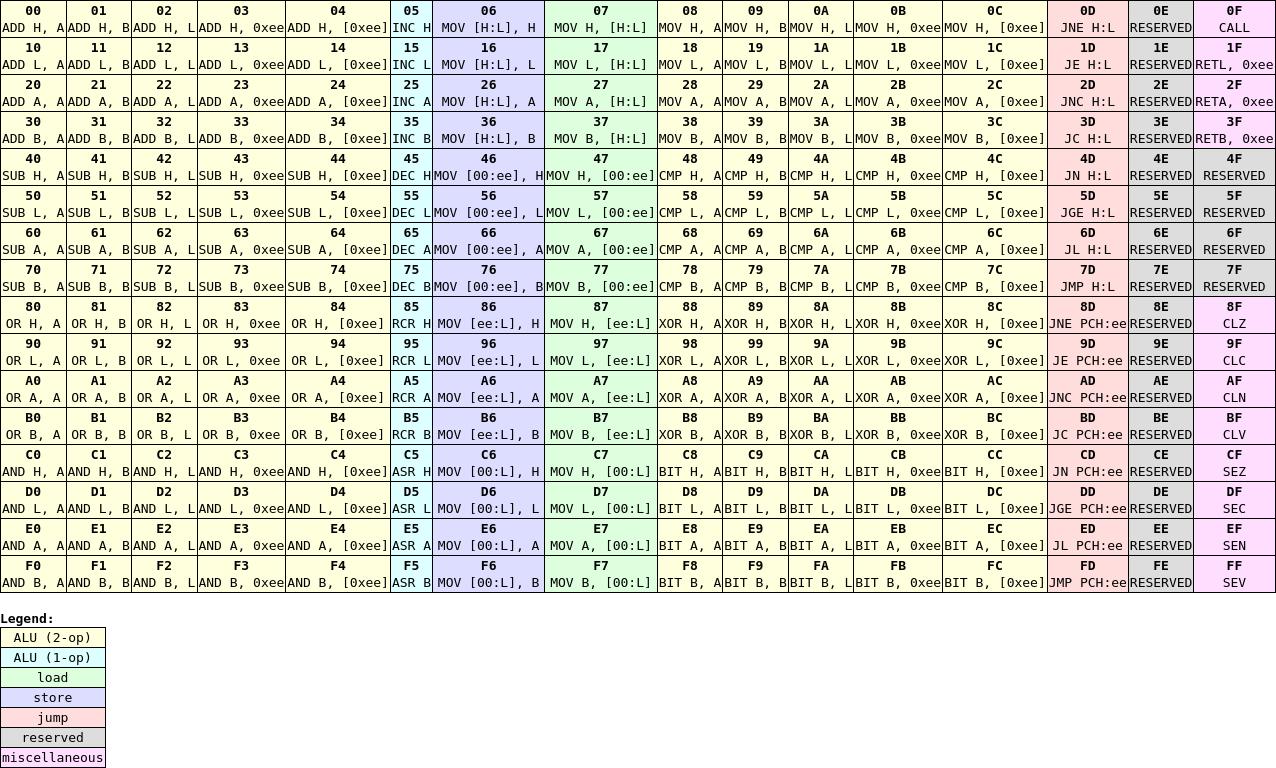
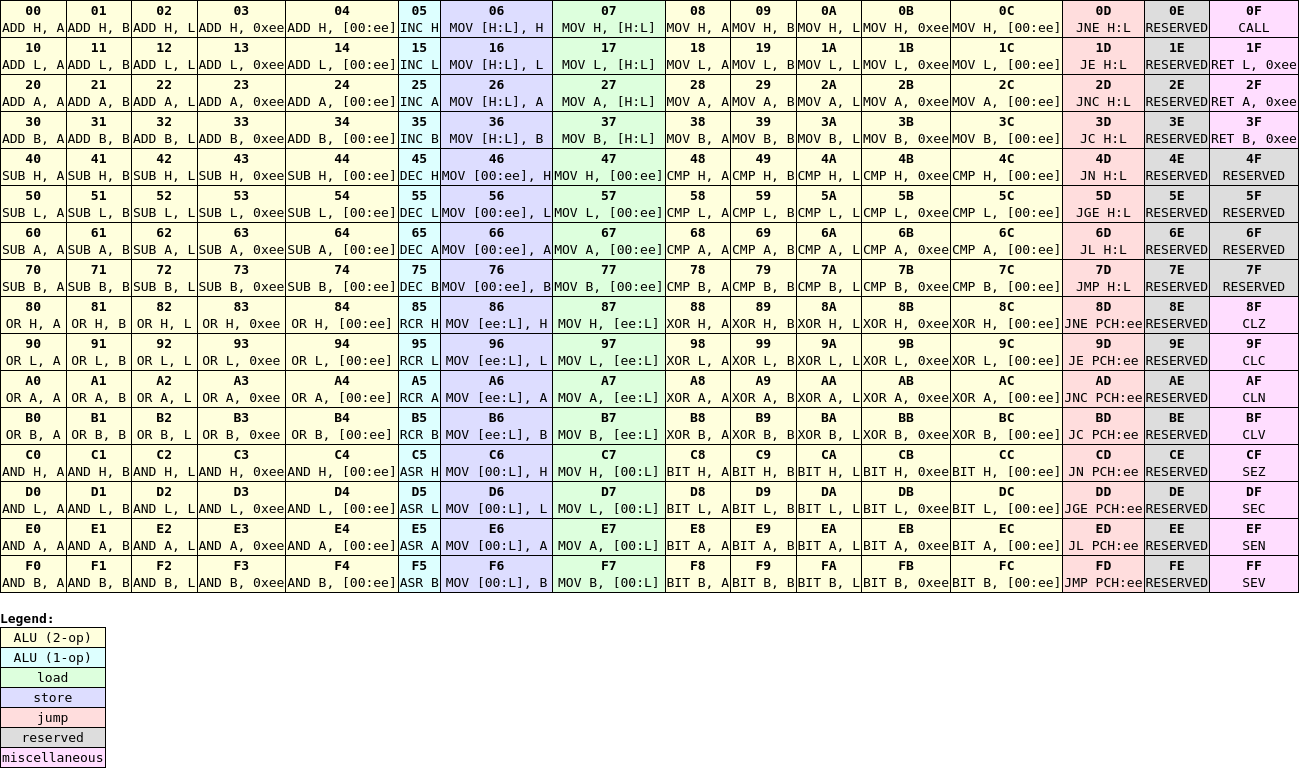
Refactored disassembler

Changed region(s): [[0.0, 0.0, 1.0, 1.0]]

diff --git a/emu/disas.c b/emu/disas.c
@@ -1,58 +1,118 @@
 #include <stdio.h>
 #include <stdlib.h>
 #include <stdint.h>
+#include <string.h>
 
 #define err(...) do { printf(__VA_ARGS__); exit(1); } while (0)
 
 uint8_t rom[100000];
 
-int disassemble(uint8_t* rom, char* str) {
+typedef enum opcode_type {
+	OP_RESERVED, OP_ALU2, OP_ALU1, OP_LOAD, OP_STORE, OP_JUMP, OP_CALL, OP_RETX, OP_FLAG,
+} opcode_type;
+
+typedef enum alu1_type {
+	ALU1_INC, ALU1_DEC, ALU1_RCR, ALU1_ASR,
+} alu1_type;
+
+typedef enum alu2_type {
+	ALU2_ADD, ALU2_MOV, ALU2_SUB, ALU2_CMP, ALU2_OR, ALU2_XOR, ALU2_AND, ALU2_BIT,
+} alu2_type;
+
+typedef enum operand_type {
+	OPER_NONE, OPER_REG, OPER_IMM, OPER_MEM_IMM, OPER_MEM_HL, OPER_MEM_IMM_L, 
+	OPER_MEM_L, OPER_PCH_IMM, OPER_HL, OPER_FLAG,
+} operand_type;
+
+typedef enum reg_type {
+	REG_NONE, REG_H, REG_L, REG_A, REG_B,
+} reg_type;
+
+typedef enum condition_type {
+	COND_NE, COND_E, COND_NC, COND_C, COND_N, COND_GE, COND_L, COND_1,
+} condition_type;
+
+typedef struct operand_t {
+	operand_type type;
+	reg_type reg;
+	uint8_t imm;
+} operand_t;
+
+typedef struct opcode_t {
+	opcode_type type;
+	union {
+		alu1_type alu1;
+		alu2_type alu2;
+		condition_type cond;
+	};
+	operand_t dst;
+	operand_t src;
+} opcode_t;
+
+int decode(uint8_t* rom, opcode_t* opcode) {
 	uint8_t op = *rom;
 	uint8_t imm = rom[1];
-
-	const char* dest[] = {"H", "L", "A", "B"};
 	uint8_t dd = (op >> 4) & 3;
 	uint8_t last3 = op & 7;
 	uint8_t last4 = op & 0xf;
 	uint8_t aa = ((op >> 6) & 3);
+	memset(opcode, 0, sizeof(opcode_t));
 	if (last3 <= 4) { 
-		uint8_t aaa = ((op >> 3) & 1) | (((op >> 6) & 3) << 1);
-		const char* alu2[] = {"ADD", "MOV", "SUB", "CMP", "OR", "XOR", "AND", "BIT"};
-		str += sprintf(str, "%s %s, ", alu2[aaa], dest[dd]);
+		opcode->type = OP_ALU2;
+		opcode->alu2 = ((op >> 3) & 1) | (((op >> 6) & 3) << 1);
+		opcode->dst.type = OPER_REG;
+		opcode->dst.reg = REG_H + dd;
 		if (last3 <= 2) {
-			const char* src[] = {"A", "B", "L"};
-			sprintf(str, "%s", src[last3]);
+			opcode->src.type = OPER_REG;
+			opcode->src.reg = (last3 == 0) ? REG_A : (last3 == 1) ? REG_B : REG_L;
 			return 1;
 		}
+		else if (last3 == 3) {
+			opcode->src.type = OPER_IMM;
+			opcode->src.imm = imm;
+			return 2;
+		}
 		else {
-			sprintf(str, "%s0x%02x%s", 
-					last3 == 3 ? "" : "[", 
-					imm,
-					last3 == 3 ? "" : "]");
+			opcode->src.type = OPER_MEM_IMM;
+			opcode->src.imm = imm;
 			return 2;
 		}
 	}
 	else if (last4 == 5) {
-		const char* alu1[] = {"INC", "DEC", "RCR", "ASR"};
-		sprintf(str, "%s %s", alu1[aa], dest[dd]);
+		opcode->type = OP_ALU1;
+		opcode->alu1 = aa;
+		opcode->dst.type = OPER_REG;
+		opcode->dst.reg = REG_H + dd;
+		opcode->src = opcode->dst;
 		return 1;
 	}
 	else if (last4 == 6 || last4 == 7) {
-		str += sprintf(str, "MOV ");
-
-		if (last4 == 7) {
-			str += sprintf(str, "%s, ", dest[dd]);
+		opcode->src.type = OPER_REG;
+		opcode->src.reg = REG_H + dd;
+		if (aa == 0) {
+			opcode->dst.type = OPER_MEM_HL;
 		}
-
-		if (aa == 0) str += sprintf(str, "[H:L]");
-		if (aa == 1) str += sprintf(str, "[00:%02x]", imm);
-		if (aa == 2) str += sprintf(str, "[%02x:L]", imm);
-		if (aa == 3) str += sprintf(str, "[00:L]");
+		else if (aa == 1) {
+			opcode->dst.type = OPER_MEM_IMM;
+			opcode->dst.imm = imm;
+		}
+		else if (aa == 2) {
+			opcode->dst.type = OPER_MEM_IMM_L;
+			opcode->dst.imm = imm;
+		}
+		else if (aa == 3) {
+			opcode->dst.type = OPER_MEM_L;
+		}
 
 		if (last4 == 6) {
-			sprintf(str, ", %s", dest[dd]);
+			opcode->type = OP_STORE;
 		}
-
+		else {
+			opcode->type = OP_LOAD;
+			operand_t opt = opcode->src;
+			opcode->src = opcode->dst;
+			opcode->dst = opt;
+		}
 		if (aa == 1 || aa == 2) {
 			return 2;
 		}
@@ -61,35 +121,102 @@ int disassemble(uint8_t* rom, char* str) {
 		}
 	}
 	else if (last4 == 0xd) {
-		uint8_t ccc = (op >> 4) & 7;
-		const char* cond[] = {"JNE", "JE", "JNC", "JC", "JN", "JGE", "JL", "JMP"};
-		str += sprintf(str, "%s ", cond[ccc]);
+		opcode->type = OP_JUMP;
+		opcode->cond = (op >> 4) & 7;
 		if (op & 0x80) {
-			sprintf(str, "PCH:%02x", imm);
+			opcode->dst.type = OPER_PCH_IMM;
+			opcode->dst.imm = imm;
 			return 2;
 		}
 		else {
-			sprintf(str, "H:L");
+			opcode->dst.type = OPER_HL;
 			return 1;
 		}
 	}
 	else if (last4 == 0xf) {
 		uint8_t first4 = op >> 4;
 		if (first4 & 8) {
-			sprintf(str, "%s%c", first4 & 4 ? "SE" : "CL", "ZCNV"[first4 & 3]);
+			opcode->type = OP_FLAG;
+			opcode->dst.type = OPER_FLAG;
+			opcode->dst.reg = first4 & 3;
+			opcode->dst.imm = (first4 & 4) >> 2;
 			return 1;
 		}
 		else if (first4 == 0) {
-			sprintf(str, "CALL");
+			opcode->type = OP_CALL;
 			return 1;
 		}
 		else if (first4 <= 3) {
-			sprintf(str, "RET%s, 0x%02x", dest[dd], imm);
+			opcode->type = OP_RETX;
+			opcode->dst.type = OPER_REG;
+			opcode->dst.reg = REG_H + dd;
+			opcode->src.type = OPER_IMM;
+			opcode->src.imm = imm;
 			return 2;
 		}
 	}
-	sprintf(str, "RESERVED");
+	opcode->type = OP_RESERVED;
 	return 1;
+}
+
+int print_operand(operand_t* operand, char* str) {
+	switch (operand->type) {
+	case OPER_REG:       return sprintf(str, "%c", "HLAB"[operand->reg - REG_H]);
+	case OPER_IMM:       return sprintf(str, "0x%02x", operand->imm);
+	case OPER_MEM_IMM:   return sprintf(str, "[00:%02x]", operand->imm);
+	case OPER_MEM_HL:    return sprintf(str, "[H:L]");
+	case OPER_HL:        return sprintf(str, "H:L");
+	case OPER_PCH_IMM:   return sprintf(str, "PCH:%02x", operand->imm);
+	case OPER_MEM_IMM_L: return sprintf(str, "[%02x:L]", operand->imm);
+	case OPER_MEM_L:     return sprintf(str, "[00:L]");
+	case OPER_FLAG:      return sprintf(str, "%c", "ZCNV"[operand->reg]);
+	default:             return sprintf(str, "???");
+	}
+}
+		
+void disassemble(opcode_t* opcode, char* str) {
+	if (opcode->type == OP_ALU2) {
+		const char* alu2[] = {"ADD", "MOV", "SUB", "CMP", "OR", "XOR", "AND", "BIT"};
+		str += sprintf(str, "%s ", alu2[opcode->alu2]);
+		str += print_operand(&opcode->dst, str);
+		str += sprintf(str, ", ");
+		str += print_operand(&opcode->src, str);
+	}
+	else if (opcode->type == OP_ALU1) {
+		const char* alu1[] = {"INC", "DEC", "RCR", "ASR"};
+		str += sprintf(str, "%s ", alu1[opcode->alu1]);
+		str += print_operand(&opcode->dst, str);
+	}
+	else if (opcode->type == OP_LOAD || opcode->type == OP_STORE) {
+		str += sprintf(str, "MOV ");
+		str += print_operand(&opcode->dst, str);
+		str += sprintf(str, ", ");
+		str += print_operand(&opcode->src, str);
+	}
+	else if (opcode->type == OP_JUMP) {
+		const char* cond[] = {"JNE", "JE", "JNC", "JC", "JN", "JGE", "JL", "JMP"};
+		str += sprintf(str, "%s ", cond[opcode->cond]);
+		str += print_operand(&opcode->dst, str);
+	}
+	else if (opcode->type == OP_CALL) {
+		str += sprintf(str, "CALL");
+	}
+	else if (opcode->type == OP_RESERVED) {
+		str += sprintf(str, "RESERVED");
+	}
+	else if (opcode->type == OP_RETX) {
+		str += sprintf(str, "RET ");
+		str += print_operand(&opcode->dst, str);
+		str += sprintf(str, ", ");
+		str += print_operand(&opcode->src, str);
+	}
+	else if (opcode->type == OP_FLAG) {
+		str += sprintf(str, "%s", opcode->dst.imm ? "SE" : "CL");
+		str += print_operand(&opcode->dst, str);
+	}
+	else {
+		str += sprintf(str, "???");
+	}
 }
 
 int main(int argc, char** argv) {
@@ -104,7 +231,9 @@ int main(int argc, char** argv) {
 	int pc = 0;
 	while (pc < sz) {
 		char str[256];
-		int cnt = disassemble(&rom[pc], str);
+		opcode_t opcode;
+		int cnt = decode(rom, &opcode);
+		disassemble(&opcode, str);
 		if (cnt == 1) {
 			printf("%04x: [%02x]    %s\n", pc, rom[pc], str);
 		}
